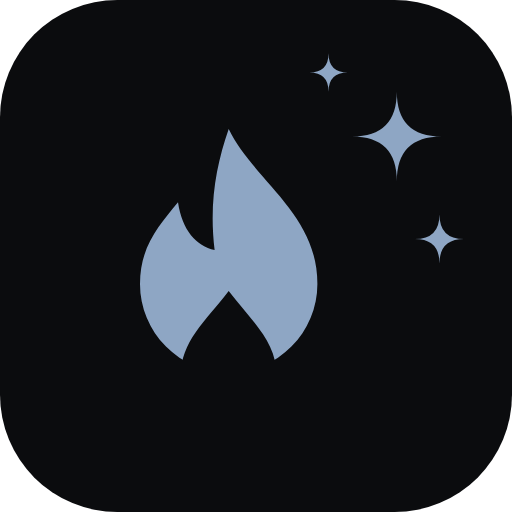
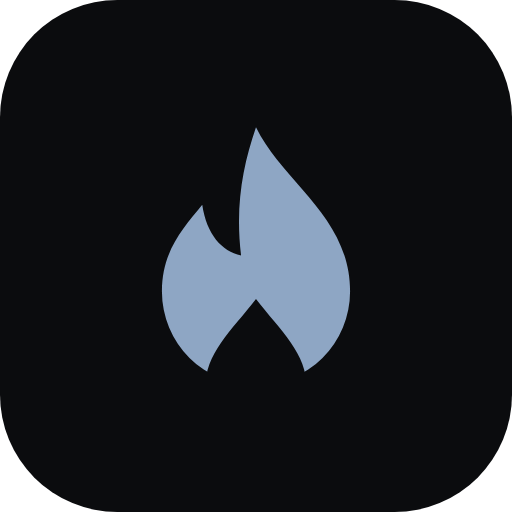
style(brand): use the flame without sparks
- Logo, favicon, PNG and ICO show only the flame with its open core

diff --git a/web/src/components/Logo.tsx b/web/src/components/Logo.tsx
@@ -3,12 +3,8 @@ import { useId } from "react";
 const FLAME =
   "M12 2.8c1.8 3.7 6.3 6 6.3 11a6.3 6.3 0 0 1-12.6 0c0-2.7 1.4-4.2 2.7-5.8.3 2 1.3 3.1 2.6 3.4-.4-3.3.1-6 1-8.6Z";
 const CORE = "M12 14.3c1.7 2.2 3.4 3.6 3.4 6a3.4 3.4 0 0 1-6.8 0c0-2.4 1.7-3.8 3.4-6Z";
-const SPARKS =
-  "M18.6 4.3Q18.6 6.4 20.7 6.4Q18.6 6.4 18.6 8.5Q18.6 6.4 16.5 6.4Q18.6 6.4 18.6 4.3Z" +
-  "M20.6 10.05Q20.6 11.2 21.75 11.2Q20.6 11.2 20.6 12.35Q20.6 11.2 19.45 11.2Q20.6 11.2 20.6 10.05Z" +
-  "M15.4 2.5Q15.4 3.4 16.3 3.4Q15.4 3.4 15.4 4.3Q15.4 3.4 14.5 3.4Q15.4 3.4 15.4 2.5Z";
 
-/** The Forgelight mark (flame with an open core and three sparks), same as assets/forgelight-mark.svg. */
+/** The Forgelight mark (a flame with an open core), same as assets/forgelight-mark.svg. */
 export function LogoMark({ className = "" }: { className?: string }) {
   const maskId = `core-${useId()}`;
   return (
@@ -19,10 +15,9 @@ export function LogoMark({ className = "" }: { className?: string }) {
           <path fill="#000" d={CORE} />
         </mask>
       </defs>
-      <g transform="translate(2.8 4.2) scale(.66)">
+      <g transform="translate(0 .55)">
         <path mask={`url(#${maskId})`} d={FLAME} />
       </g>
-      <path d={SPARKS} />
     </svg>
   );
 }
